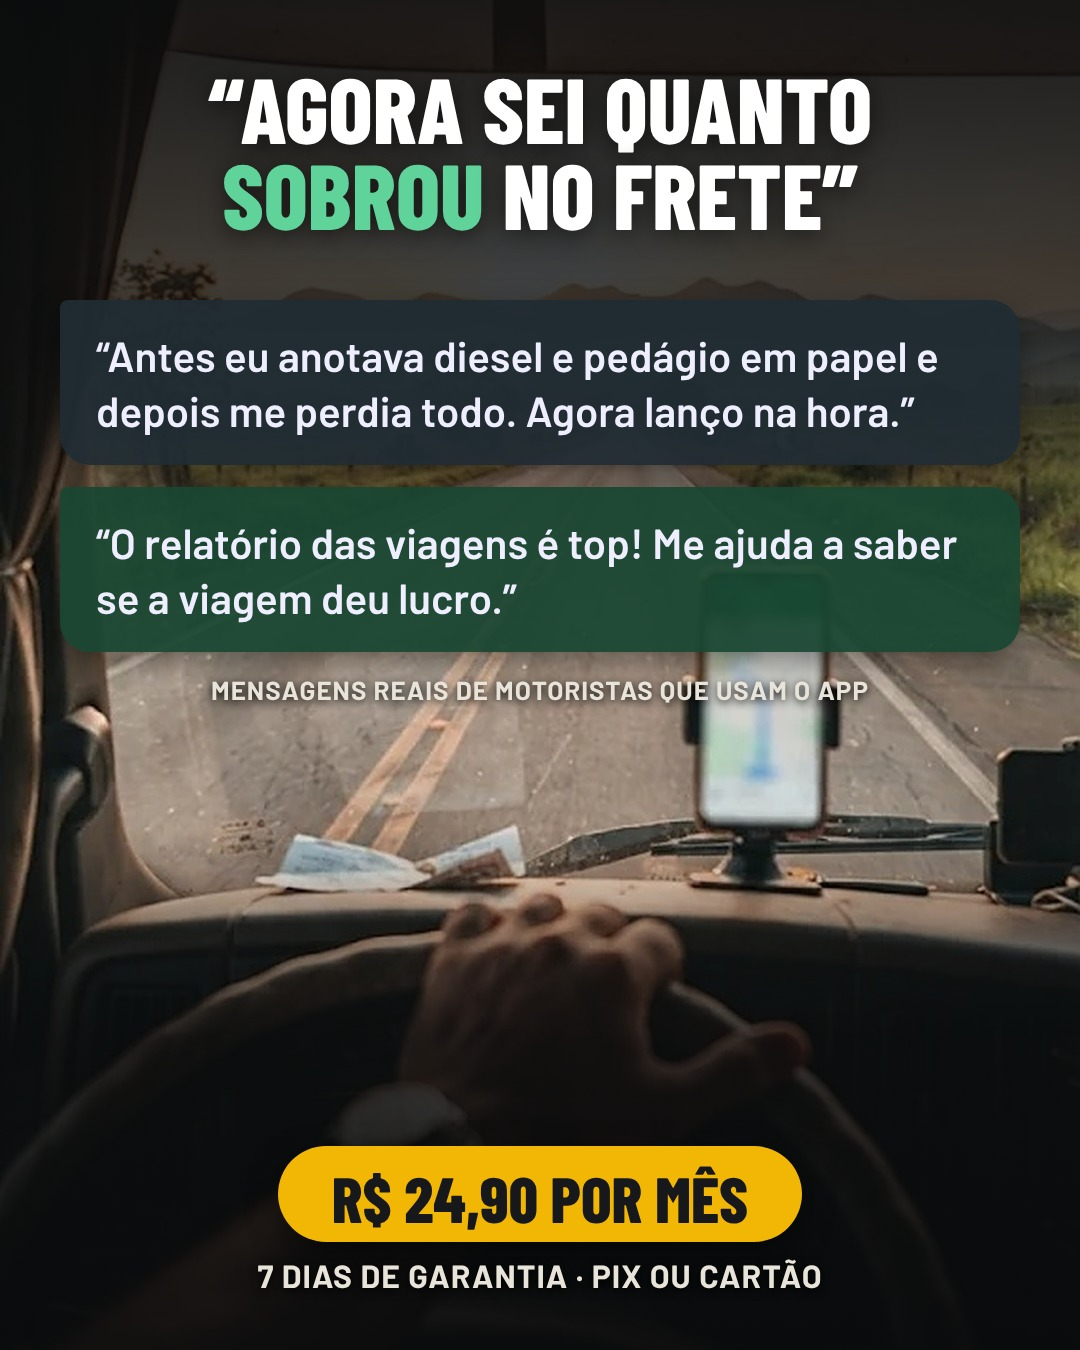
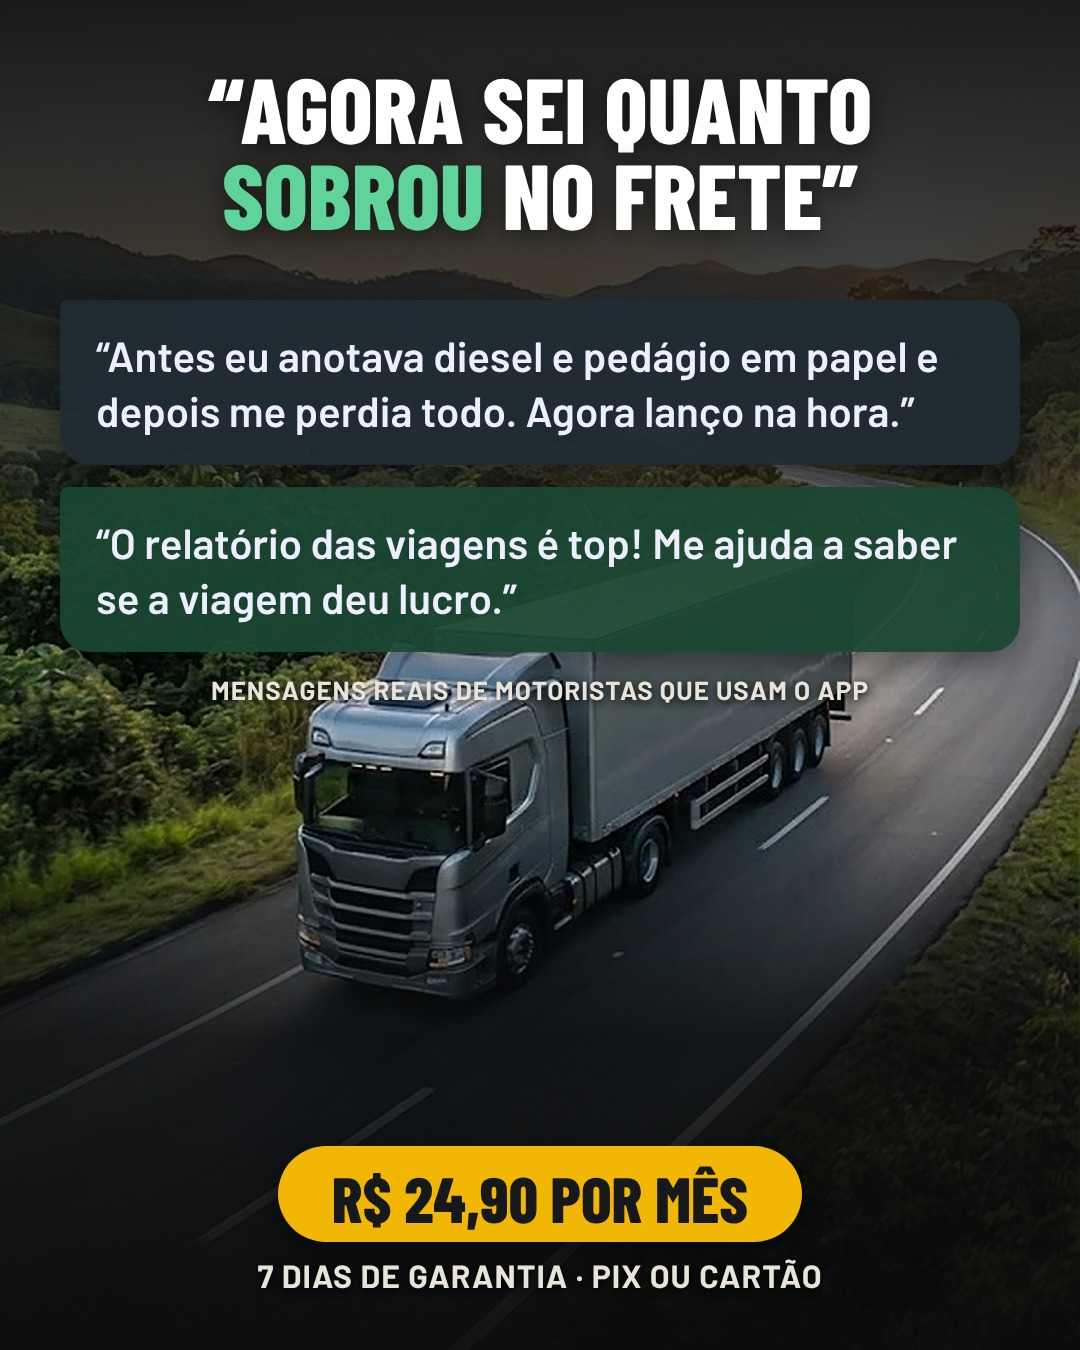
Anúncios fds: fotos refeitas (caminhões novos e realistas, motorista bem arrumado)
Claude-Session: https://claude.ai/code/session_01NoyFaCbiHNtNtFnmVnZDak

diff --git a/marketing/anuncios/fds-21-11/src/foto.html b/marketing/anuncios/fds-21-11/src/foto.html
@@ -32,20 +32,20 @@ const OFF='<div class="pill">R$ 24,90 por mês</div><div class="sm">7 dias de ga
 const ph=(x,y,w,h,pos)=>`<div class="ph" style="left:${x}px;top:${y}px;width:${w}px;height:${h}px"><img src="07-sobrou-full.png" style="object-position:${pos}"></div>`;
 const T=tall?240:0; // deslocamento 9:16
 const C={
-sobrou:{f:1,pos:'50% 60%',h:`<h1 style="font-size:100px">Quanto <span class="g">sobrou</span> da<br>sua última viagem?</h1>
+sobrou:{f:1,pos:'50% 70%',h:`<h1 style="font-size:100px">Quanto <span class="g">sobrou</span> da<br>sua última viagem?</h1>
  <div class="sub" style="top:${tall?560:300}px">Lance frete, diesel, gastos e diárias.<br>O app faz a conta.</div>
- ${ph(70,tall?760:470,380,tall?520:420,'0 34%')}`},
-papel:{f:2,pos:'50% 50%',h:`<h1>Ainda anota<br>a viagem <span class="y">no papel?</span></h1>
+ ${ph(tall?40:70,tall?760:470,tall?320:380,tall?480:420,tall?'0 41%':'0 38%')}`},
+papel:{f:2,pos:'50% 60%',h:`<h1>Ainda anota<br>a viagem <span class="y">no papel?</span></h1>
  <div class="sub" style="bottom:${tall?640:250}px">No celular, diesel, gastos e diárias<br>somam sozinhos. No fim: <span class="g">quanto sobrou.</span></div>`},
-toque:{f:3,pos:'50% 55%',h:`<h1>Abasteceu?<br><span class="y">Um toque.</span></h1>
+toque:{f:3,pos:'50% 60%',h:`<h1>Abasteceu?<br><span class="y">Um toque.</span></h1>
  <div class="btns" style="bottom:${tall?640:250}px">
   <div class="bt" style="background:#2163b3">Abasteci</div><div class="bt" style="background:#c4410f">Gastei</div><div class="bt" style="background:#11796f">Diária</div></div>`},
-preco:{f:4,pos:'50% 62%',h:`<h1 style="font-size:96px">Custa menos<br>que esse <span class="y">cafezinho</span></h1>
+preco:{f:4,pos:'50% 70%',h:`<h1 style="font-size:96px">Custa menos<br>que esse <span class="y">cafezinho</span></h1>
  <div class="price" style="bottom:${tall?600:250}px"><div style="font:800 200px/.9 BC;color:#f2b705;text-shadow:0 6px 30px rgba(0,0,0,.7)">R$ 0,83</div><div style="font:800 64px BC;text-transform:uppercase">por dia</div></div>`},
-diaria:{f:5,pos:'50% 50%',h:`<h1 style="font-size:100px">Parado esperando<br><span class="y">descarga?</span></h1>
+diaria:{f:5,pos:'50% 75%',h:`<h1 style="font-size:100px">Parado esperando<br><span class="y">descarga?</span></h1>
  <div class="sub" style="top:${tall?520:290}px">Lance as diárias e veja sua comissão<br>e o que ainda falta receber.</div>
  ${ph(tall?600:640,tall?820:560,380,tall?400:330,'0 92%')}`},
-depo:{f:6,pos:'50% 55%',h:`<h1 style="font-size:92px">“Agora sei quanto<br><span class="g">sobrou</span> no frete”</h1>
+depo:{f:6,pos:'50% 75%',h:`<h1 style="font-size:92px">“Agora sei quanto<br><span class="g">sobrou</span> no frete”</h1>
  <div style="position:absolute;left:60px;right:60px;top:${tall?560:300}px">
   <div class="q">“Antes eu anotava diesel e pedágio em papel e depois me perdia todo. Agora lanço na hora.”</div>
   <div class="q v">“O relatório das viagens é top! Me ajuda a saber se a viagem deu lucro.”</div>

diff --git a/docs/anuncios.md b/docs/anuncios.md
@@ -3,7 +3,7 @@
 Plano completo (doc vivo): https://claude.ai/artifact/AMsPbNAjyBwKhrzTR9Msp1
 
 ## Campanha do fim de semana 21–23/11/2026 (pronta, aguardando ok do valor)
-- Pacote em `marketing/anuncios/fds-21-11/`: 6 imagens (4:5 e 9:16) com fotos feitas por IA (Gemini grátis do Rafael) + texto e tela do app por cima; 3 vídeos (nota da viagem, 10 segundos, frete bom/ruim com final "Toque em Saiba mais"). 2 vídeos com voz aguardando ok do roteiro.
+- Pacote em `marketing/anuncios/fds-21-11/`: 6 imagens (4:5 e 9:16) com fotos feitas por IA (Gemini grátis do Rafael; refeitas em 20/11 com caminhões novos, limpos e realistas tipo Scania R ou Volvo FH, e motorista bem arrumado. O Rafael não gostou de caminhoneiro e caminhão sujos, nem de cabine irreal sem coluna: conferir cada foto de perto antes de usar) + texto e tela do app por cima; 3 vídeos (nota da viagem, 10 segundos, frete bom/ruim com final "Toque em Saiba mais"). 2 vídeos com voz aguardando ok do roteiro.
 - Estrutura nova (pesquisa 20/11): 1 campanha de Vendas, 1 conjunto amplo (Advantage+), 9 anúncios diferentes, R$ 40/dia sáb–seg (R$ 120). Otimizar para InitiateCheckout. Substitui o 1-3-1: com pouco dinheiro, 3 conjuntos não aprendem; o Meta (Andromeda) acha o público pelo criativo.
 - Textos, links com UTM (`utm_campaign=fds2111`, `utm_content=img1…vid3`) e checklist: no doc do plano, seção "Campanha do fim de semana".
 - Rafael pediu (20/11): imagens não devem ser desenhadas pelo Claude ("fica ruim"); usar gerador de imagem com IA para as fotos.
